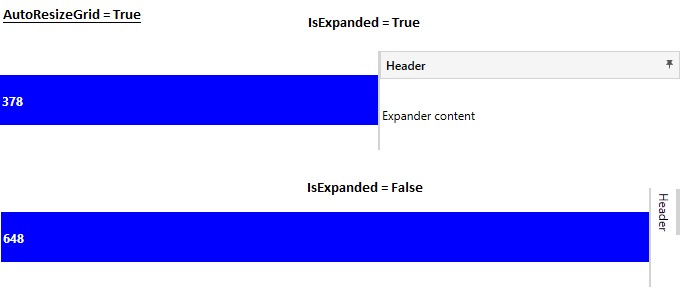
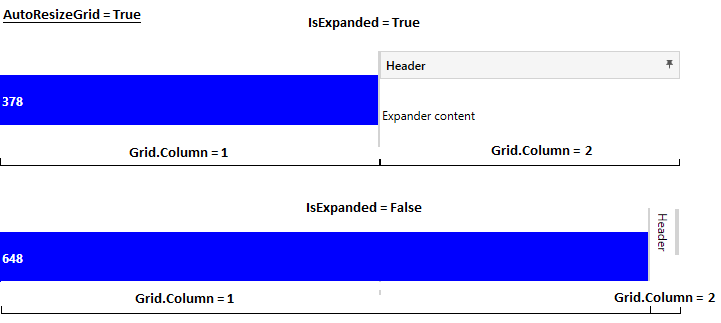
expander

diff --git a/orc.controls/expander.htm b/orc.controls/expander.htm
@@ -230,7 +230,7 @@
 <h1 id="expander">Expander<a class="headerlink" href="#expander" title="Permalink to this headline"><i class="fa fa-link" aria-hidden="true"></i></a></h1>
 <p>This is simple expander with ability to auto resize grid and accent color.
 <br />Inherits from <a href="https://msdn.microsoft.com/en-us/library/system.windows.controls.headeredcontentcontrol(v=vs.110).aspx" target="_blank">System.Windows.Controls.HeaderedContentControl</a>.</p>
-<p><img src="../images/orc.controls/expander/Expander_01.png" alt="Expander 01" width="684" height="300" /></p>
+<p><img src="../images/orc.controls/expander/Expander_01.png" alt="Expander 01" width="721" height="323" /></p>
 <h2 id="properties">Properties<a class="headerlink" href="#properties" title="Permalink to this headline"><i class="fa fa-link" aria-hidden="true"></i></a></h2>
 <table class="table table-bordered-all table-responsive">
 <thead>
